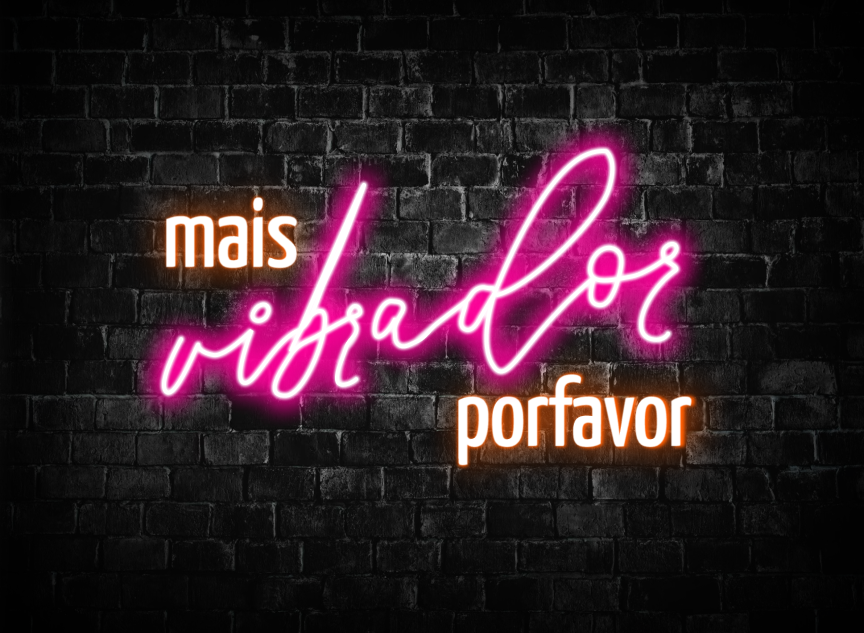
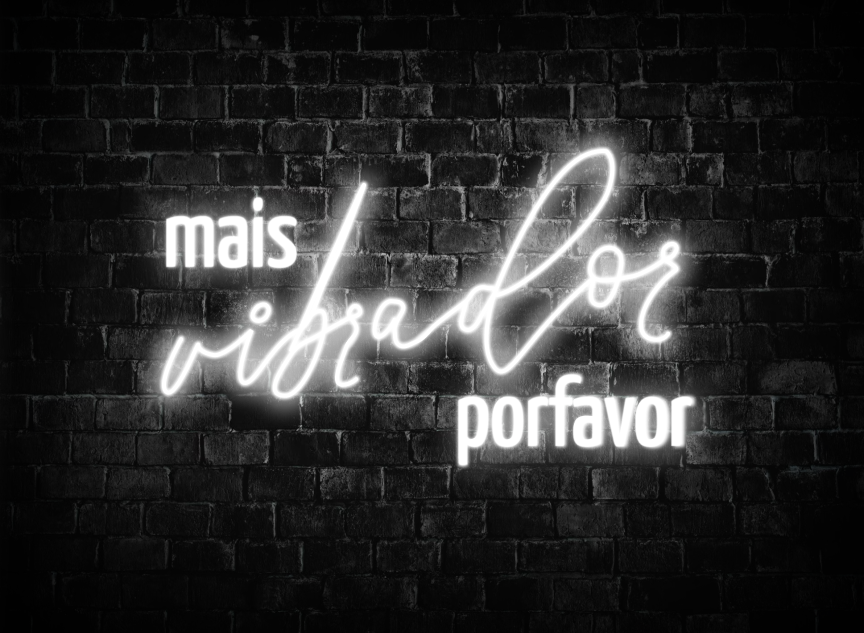
atualizacoes

Changed region(s): [[0.1562, 0.1801, 0.8438, 0.7504]]

diff --git a/src/components/PvImpact.vue b/src/components/PvImpact.vue
@@ -1,53 +1,58 @@
 <template>
   <section class="impact">
-    <img src="../assets/impact2.png" alt="" />
-    <h1>VIBRE MAIS ALTO</h1>
+    <a class="btn bg-white c-black" href="">LOJA VIRTUAL</a>
   </section>
 </template>
 
 <script>
 export default {
   name: "PvImpact",
-  computed: {
-    mobile() {
-      return window.innerWidth <= 640;
-    },
-  },
 };
 </script>
 
 <style lang="scss" scoped>
 .impact {
   display: flex;
-  position: relative;
+  flex-direction: column;
+  justify-content: flex-end;
+  padding-bottom: 10vh;
+  align-items: center;
   width: 100%;
   height: 75vh;
+  background-image: url("../assets/impact2.png");
+  background-repeat: no-repeat;
+  background-position: center center;
+  background-size: cover;
+  filter: saturate(0);
 
   @media screen and (max-width: 640px) {
     height: 50vh;
   }
 
-  img {
-    width: 100%;
-    object-fit: cover;
-  }
-
-  h1 {
-    position: absolute;
-    top: 50%;
-    left: 0;
-    right: 0;
-    text-align: center;
-    font-size: 4.86vw;
-    transform: translate(0, -50%);
+  a {
+    letter-spacing: 0.2vw;
 
     @media screen and (max-width: 1007px) and (min-width: 641px) {
-      font-size: 5.86vw;
+      letter-spacing: 0.4vw;
     }
 
     @media screen and (max-width: 640px) {
       font-size: 9vw;
     }
+  }
+  .btn {
+    height: 40px;
+    text-decoration: none;
+    padding: 12px 0;
+    width: 260px;
+    border: none;
+    -webkit-box-shadow: 0px 0px 0px 1px rgba(0, 0, 0, 1);
+    -moz-box-shadow: 0px 0px 0px 1px rgba(0, 0, 0, 1);
+    box-shadow: 0px 0px 0px 1px rgba(0, 0, 0, 1);
+    letter-spacing: 20%;
+    font-size: 14px;
+    font-weight: 700;
+    text-align: center;
   }
 }
 </style>

diff --git a/src/components/PvTitleText.vue b/src/components/PvTitleText.vue
@@ -1,0 +1,65 @@
+<template>
+  <section class="bg-black">
+    <h1><slot name="title"></slot></h1>
+    <p class="c-gray"><slot name="text"></slot></p>
+  </section>
+</template>
+
+<script>
+export default {
+  name: "PvTitleText",
+};
+</script>
+
+<style lang="scss" scoped>
+section {
+  padding: 8vw;
+  display: flex;
+  flex-direction: column;
+  align-items: center;
+  gap: 4.5vw;
+
+  @media screen and (max-width: 1007px) and (min-width: 641px) {
+    padding: 9vw;
+  }
+
+  @media screen and (max-width: 640px) {
+    padding: 13vw 8vw;
+  }
+
+  h1 {
+    font-size: 4.66vw;
+    font-weight: 700;
+    text-align: center;
+    text-transform: uppercase;
+    width: 60vw;
+    overflow-wrap: break-word;
+    word-wrap: break-word;
+    word-break: break-word;
+
+    @media screen and (max-width: 1007px) and (min-width: 641px) {
+      width: 60vw;
+      font-size: 4vw;
+    }
+
+    @media screen and (max-width: 640px) {
+      font-size: 5.5vw;
+      width: initial;
+    }
+  }
+
+  p {
+    font-size: 2.9vw;
+    font-weight: 300;
+    text-align: center;
+
+    @media screen and (max-width: 1007px) and (min-width: 641px) {
+      font-size: 2.6vw;
+    }
+
+    @media screen and (max-width: 640px) {
+      font-size: 5vw;
+    }
+  }
+}
+</style>

diff --git a/src/components/PvCategory.vue b/src/components/PvCategory.vue
@@ -10,9 +10,6 @@
         <h2 class="c-gray">{{ item.text }}</h2>
         <a :class="item.btnClass" href="">{{ item.btn }}</a>
       </div>
-      <div :class="`img-${item.class}`">
-        <img :src="require(`@/assets/${item.img}`)" :alt="item.title" />
-      </div>
     </div>
   </section>
 </template>
